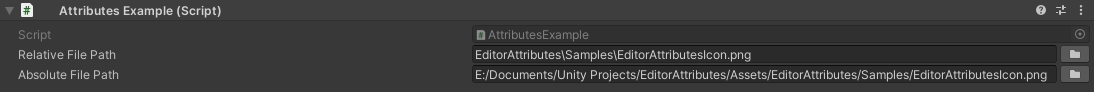
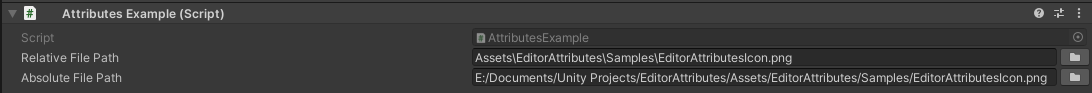
Update 2.1.0

diff --git a/docs/source/Attributes/DecorativeAttributes/image.rst b/docs/source/Attributes/DecorativeAttributes/image.rst
@@ -5,8 +5,9 @@ Attribute to draw an image in the inspector
 
 **Parameters:**
 	- ``string`` imagePath: The path of the image asset
-	- `optional`, ``float`` imageWidth: The width of the image
-	- `optional`, ``float`` imageHeight: The height of the image
+	- `optional`, ``float`` imageWidth: The width of the image in pixels
+	- `optional`, ``float`` imageHeight: The height of the image in pixels
+	- `optional`, ``StringInputMode`` stringInputMode: Set if the string input is set trough a constant or dynamically trough another member
 
 If there is no size given it will default to the image size::
 
@@ -23,3 +24,18 @@ If there is no size given it will default to the image size::
 	}
 
 .. image:: ../../Images/Image01.png
+
+You can dynamically change the image by setting the `stringInputMode` parameter to dynamic and specify a member name in the string parameter to get the image path from::
+
+	using UnityEngine;
+	using EditorAttributes;
+	
+	public class AttributesExample : MonoBehaviour
+	{
+		[Image(nameof(imagePath), stringInputMode: StringInputMode.Dynamic)]
+		[SerializeField] private int field01;
+	
+		[SerializeField, FilePath(filters: "png")] private string imagePath;
+	}
+
+.. image:: ../../Images/Image02.png

diff --git a/docs/source/changelogs.rst b/docs/source/changelogs.rst
@@ -1,6 +1,21 @@
 Changelogs
 ==========
 
+EditorAttributes v2.1.0 Changelog:
+----------------------------------
+- Added IndentProperty Attribute
+- Added HideInChildren Attribute
+- Fixed members inside serialized objects nested in arrays or other serialized objects not being found
+- Fixed an issue where serialized properties could not be found by grouping attributes
+- Updated the ProgresBar Attribute with the built in look and removed color parameters
+- Grouping attributes now work inside serialized objects
+- The ToggleGroup Attribute will return the toggle value when placed on a bool
+- The Prefix Attribute offset parameter will now increase the space between it and the field instead of decreasing it
+- SelectionButtons, FilePath and FolderPath attributes now display properly inside collections
+- The File/FolderPath Attribute relative path will now include the Assets folder
+- You can now dynamically change the string inputs on the Title, Image, Rename, Suffix and Prefix attributes
+- Collections can now be affected by certain attributes (only available in unity 2023.3 and above)
+
 EditorAttributes v2.0.0 Changelog:
 ----------------------------------
 - Added FilePath Attribute

diff --git a/docs/source/Attributes/DecorativeAttributes/title.rst b/docs/source/Attributes/DecorativeAttributes/title.rst
@@ -8,6 +8,7 @@ Attribute to draw a fully customizable header
 	- `optional`, ``int`` titleSize: The size of the title
 	- `optional`, ``bool`` drawLine: Draw a line under the title
 	- `optional`, ``TextAnchor`` alignment: The alignment of the title
+	- `optional`, ``StringInputMode`` stringInputMode: Set if the string input is set trough a constant or dynamically trough another member
 
 Example::
 
@@ -33,3 +34,18 @@ Example::
 	}
 
 .. image:: ../../Images/Title01.png
+
+You can dynamically change the title by settings the `stringInputMode` parameter to dynamic and specify a member name in the string parameter to get the string value from::
+
+	using UnityEngine;
+	using EditorAttributes;
+	
+	public class AttributesExample : MonoBehaviour
+	{
+		[Title(nameof(DynamicTitle), stringInputMode: StringInputMode.Dynamic)]
+		[SerializeField] private int intField;
+	
+		public string DynamicTitle => $"The int value is: {intField}";
+	}
+
+.. image:: ../../Images/Title02.gif

diff --git a/docs/source/Attributes/NumericalAttributes/progressbar.rst b/docs/source/Attributes/NumericalAttributes/progressbar.rst
@@ -6,11 +6,6 @@ Attribute to draw a progress bar
 **Parameters:**
 	- ``float`` maxValue: The maximum value of the progress bar
 	- ``float`` barHeight: The height of the progress bar
-	- ``float`` red: Filling bar red amount
-	- ``float`` green: Filling bar green amount
-	- ``float`` blue: Filling bar blue amount
-	- ``string`` hexColor: The color of the bar filling in hexadecimals
-	- `optional`, ``GUIColor`` color: The color of the bar filling
 
 Moving the value slider will update the progress bar value::
 
@@ -21,8 +16,8 @@ Moving the value slider will update the progress bar value::
 	{
 		[SerializeField, Range(0f, 100f)] private float value;
 	
-		[SerializeField, ProgressBar(GUIColor.Red)] private int intBar;
-		[SerializeField, ProgressBar("#327ba8", 100f, 50f)] private float floatBar;
+		[SerializeField, ProgressBar] private int intBar;
+		[SerializeField, ProgressBar(100f, 50f)] private float floatBar;
 	
 		void OnValidate()
 		{

diff --git a/docs/source/Attributes/MiscellaneousAttributes/rename.rst b/docs/source/Attributes/MiscellaneousAttributes/rename.rst
@@ -6,6 +6,7 @@ Attribute to rename a field in the inspector
 **Parameters:**
 	- ``string`` name: The new name of the field
 	- `optional`, ``CaseType`` caseType: In what case to rename the field
+	- `optional`, ``StringInputMode`` stringInputMode: Set if the string input is set trough a constant or dynamically trough another member
 
 Example::
 
@@ -39,3 +40,16 @@ You can also apply different case types to the name like so::
 	}
 
 .. image:: ../../Images/Rename02.png
+
+You can dynamically change the label by setting the `stringInputMode` parameter to dynamic and specify a member name in the string parameter to get the string value from::
+
+	using UnityEngine;
+	using EditorAttributes;
+	
+	public class AttributesExample : MonoBehaviour
+	{
+		[Rename(nameof(stringField), stringInputMode: StringInputMode.Dynamic)]
+		[SerializeField] private string stringField;
+	}
+	
+.. image:: ../../Images/Rename03.gif

diff --git a/docs/source/Attributes/DecorativeAttributes/prefix.rst b/docs/source/Attributes/DecorativeAttributes/prefix.rst
@@ -6,6 +6,7 @@ Attribute to add a prefix on a field
 **Parameters:**
 	- ``string`` prefix: The prefix to add
 	- `optional`, ``float`` offset: Offset to add between the prefix and field
+	- `optional`, ``StringInputMode`` stringInputMode: Set if the string input is set trough a constant or dynamically trough another member
 
 Example::
 
@@ -19,3 +20,17 @@ Example::
 	}
 
 .. image:: ../../Images/Prefix01.png
+
+You can dynamically change the label by setting the `stringInputMode` parameter to dynamic and specify a member name in the string parameter to get the string value from::
+
+	using UnityEngine;
+	using EditorAttributes;
+	
+	public class AttributesExample : MonoBehaviour
+	{
+		[Prefix(nameof(stringField), stringInputMode: StringInputMode.Dynamic)]
+		[SerializeField] private string stringField;
+	}
+	
+.. image:: ../../Images/Prefix02.gif
+

diff --git a/docs/source/Attributes/DecorativeAttributes/suffix.rst b/docs/source/Attributes/DecorativeAttributes/suffix.rst
@@ -6,6 +6,7 @@ Attribute to add a suffix on a field
 **Parameters:**
 	- ``string`` suffix: The suffix to add
 	- `optional`, ``float`` offset: Offset to add between the suffix and field
+	- `optional`, ``StringInputMode`` stringInputMode: Set if the string input is set trough a constant or dynamically trough another member
 
 Example::
 
@@ -19,3 +20,16 @@ Example::
 	}
 
 .. image:: ../../Images/Suffix01.png
+
+You can dynamically change the label by setting the `stringInputMode` parameter to dynamic and specify a member name in the string parameter to get the string value from::
+
+	using UnityEngine;
+	using EditorAttributes;
+	
+	public class AttributesExample : MonoBehaviour
+	{
+		[Suffix(nameof(stringField), stringInputMode: StringInputMode.Dynamic)]
+		[SerializeField] private string stringField;
+	}
+	
+.. image:: ../../Images/Suffix02.gif

diff --git a/docs/source/Attributes/GroupingAttributes/togglegroup.rst b/docs/source/Attributes/GroupingAttributes/togglegroup.rst
@@ -26,3 +26,21 @@ Example::
 	}
 	
 .. image:: ../../Images/ToggleGroup01.gif
+
+If you place the `ToggleGroup Attribute` on a ``bool`` the toggle value it will be set to that bool::
+
+	using UnityEngine;
+	using EditorAttributes;
+	
+	public class AttributesExample : MonoBehaviour
+	{
+		[ToggleGroup("ToggleGroup", nameof(intField), nameof(stringField), nameof(boolField))]
+		[SerializeField] private bool toggleGroup;
+	
+		[MessageBox("The group is toggled", nameof(toggleGroup))]
+		[SerializeField, HideInInspector] private int intField;
+		[SerializeField, HideInInspector] private string stringField;
+		[SerializeField, HideInInspector] private bool boolField;
+	}
+	
+.. image:: ../../Images/ToggleGroup02.gif

diff --git a/docs/source/Attributes/MiscellaneousAttributes/hideinchildren.rst b/docs/source/Attributes/MiscellaneousAttributes/hideinchildren.rst
@@ -1,0 +1,24 @@
+Required Attribute
+==================
+
+Attribute to hide the inherited field in the child classes
+
+Example::
+
+	using UnityEngine;
+	using EditorAttributes;
+	
+	public class AttributesExample : MonoBehaviour
+	{
+		[SerializeField, HideInChildren] private int intField;
+		[SerializeField, HideInChildren] private float floatField;
+		[SerializeField, HideInChildren] private string stringField;
+	}
+
+	// In a separate file
+	public class AttributeExampleChild : AttributesExample
+	{	
+	
+	}
+
+.. image:: ../../Images/HideInChildren01.png

diff --git a/docs/source/Attributes/DecorativeAttributes/indentproperty.rst b/docs/source/Attributes/DecorativeAttributes/indentproperty.rst
@@ -1,0 +1,21 @@
+IndentProperty Attribute
+========================
+
+Attrtibute to indent a property in the inspector
+
+**Parameters:**
+	- `optional`, ``int`` indentLevel: The amount to indent by
+
+Example::
+
+	using UnityEngine;
+	using EditorAttributes;
+	
+	public class AttributesExample : MonoBehaviour
+	{
+		[SerializeField, IndentProperty] private int intField;
+		[SerializeField, IndentProperty(2)] private float floatField;
+		[SerializeField, IndentProperty(3)] private string stringField;
+	}
+	
+.. image:: ../../Images/IndentProperty01.png

diff --git a/docs/source/Attributes/DecorativeAttributes/propertywidth.rst b/docs/source/Attributes/DecorativeAttributes/propertywidth.rst
@@ -4,8 +4,8 @@ PropertyWidth Attribute
 Attribute to adjust the width of a property's label and field
 
 **Parameters:**
-	- ``labelWidth`` The width of the label
-	- `optional`, ``fieldWidth`` The minimum width reserved for the fields
+	- ``float`` labelWidth: The width of the label
+	- `optional`, ``float`` labelWidth: The minimum width reserved for the fields
 
 Example::
 

diff --git a/docs/source/Attributes/ConditionalAttributes/hidefield.rst b/docs/source/Attributes/ConditionalAttributes/hidefield.rst
@@ -43,6 +43,3 @@ You can also use enums as a condition like this::
 The field will be hidden when the ``enum`` is set to `State02`.
 
 .. image:: ../../Images/HideField02.gif
-
-.. note::
-	It cannot hide arrays or lists, only the fields inside them
